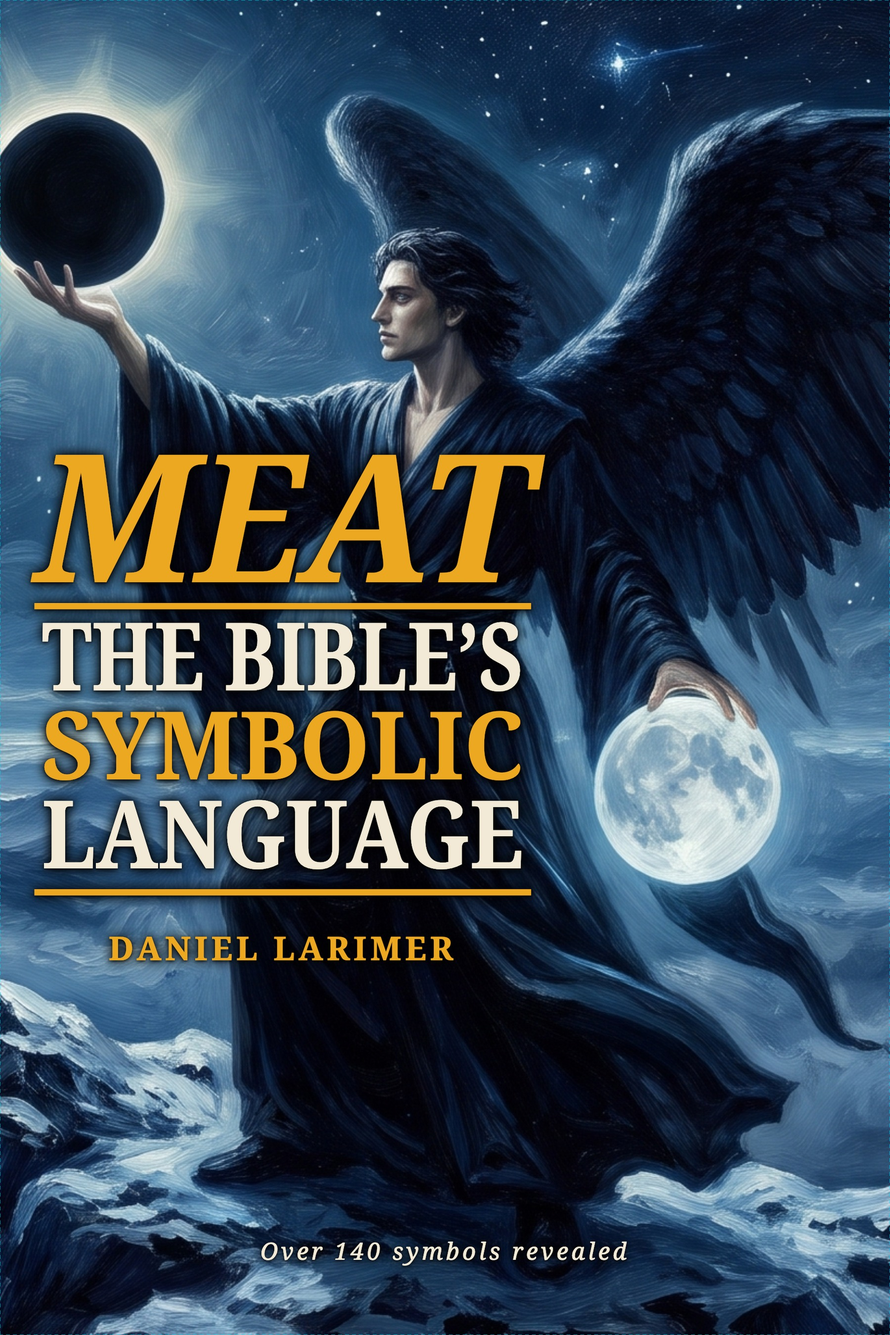
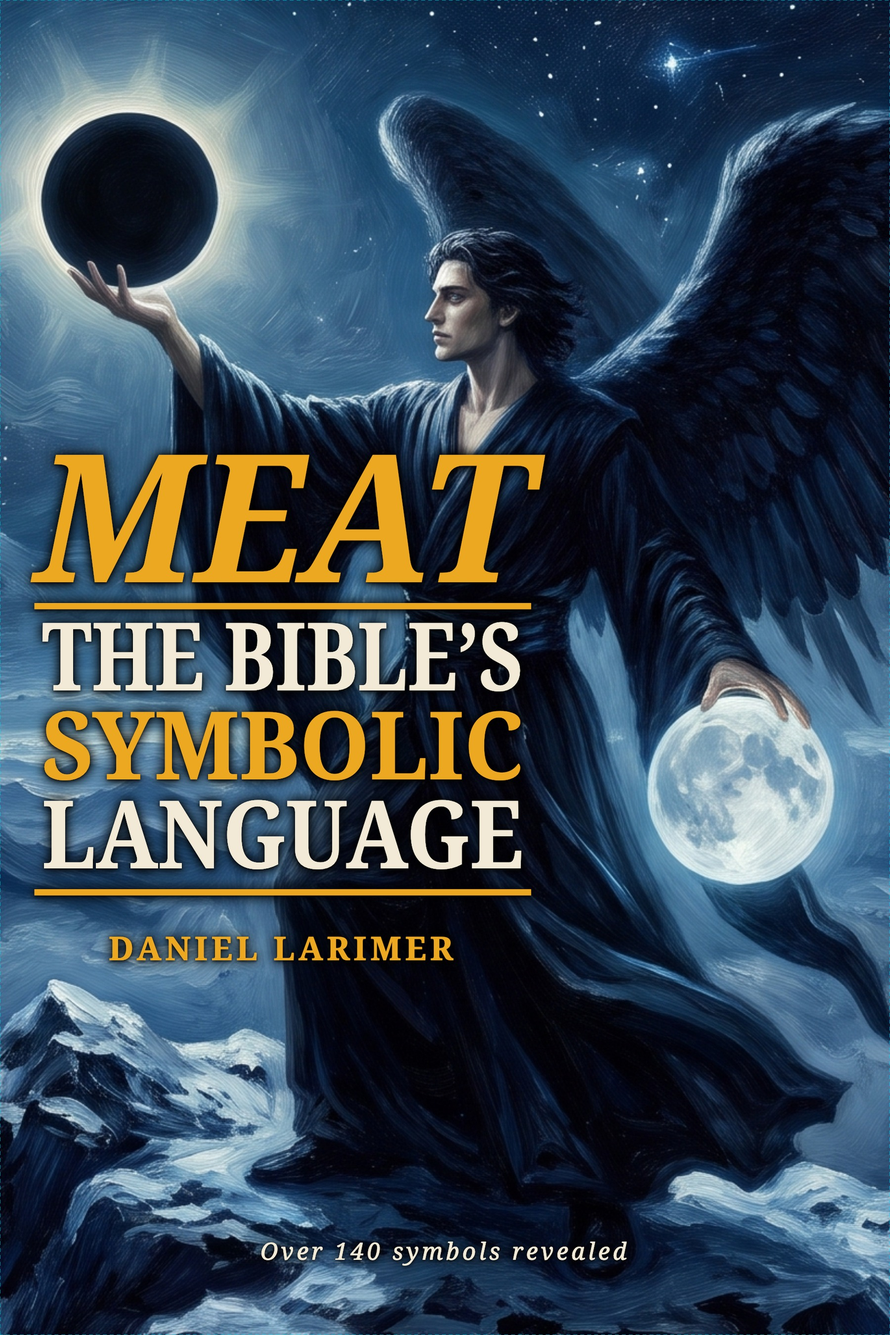
Cover: eclipse and full moon equidistant from the front trim edges
Measured both orbs in the source painting (eclipse 1650-1805px, moon
2215-2370px); at x=-4.9 the eclipse's left edge sat exactly on the trim.
Shifted the summit placement to x=-4.54 for equal ~0.36in margins; wrap
SVG and front-cover JPG regenerated.

diff --git a/books/symbolic-language/cover/make_cover.py b/books/symbolic-language/cover/make_cover.py
@@ -103,7 +103,9 @@ PRESETS = {
     # SYMBOLIC in symbol-gold, THE BIBLE'S / LANGUAGE in cream. Read the gold:
     # MEAT [is] SYMBOLIC; read the cream: THE BIBLE'S LANGUAGE. Spoken, the
     # title is the invitation: "meet the Bible's symbolic language."
-    'summit-meat': dict(explicit=dict(img='SUMMIT', disp_h=9.85, x=-4.9, y=0.0),
+    # x=-4.54: the eclipse and the full moon sit equidistant (~0.36in) from
+    # the front panel's trim edges (author's ruling — neither orb cut).
+    'summit-meat': dict(explicit=dict(img='SUMMIT', disp_h=9.85, x=-4.54, y=0.0),
                         meat_layout=True, title_cx=9.10),
 }
 
